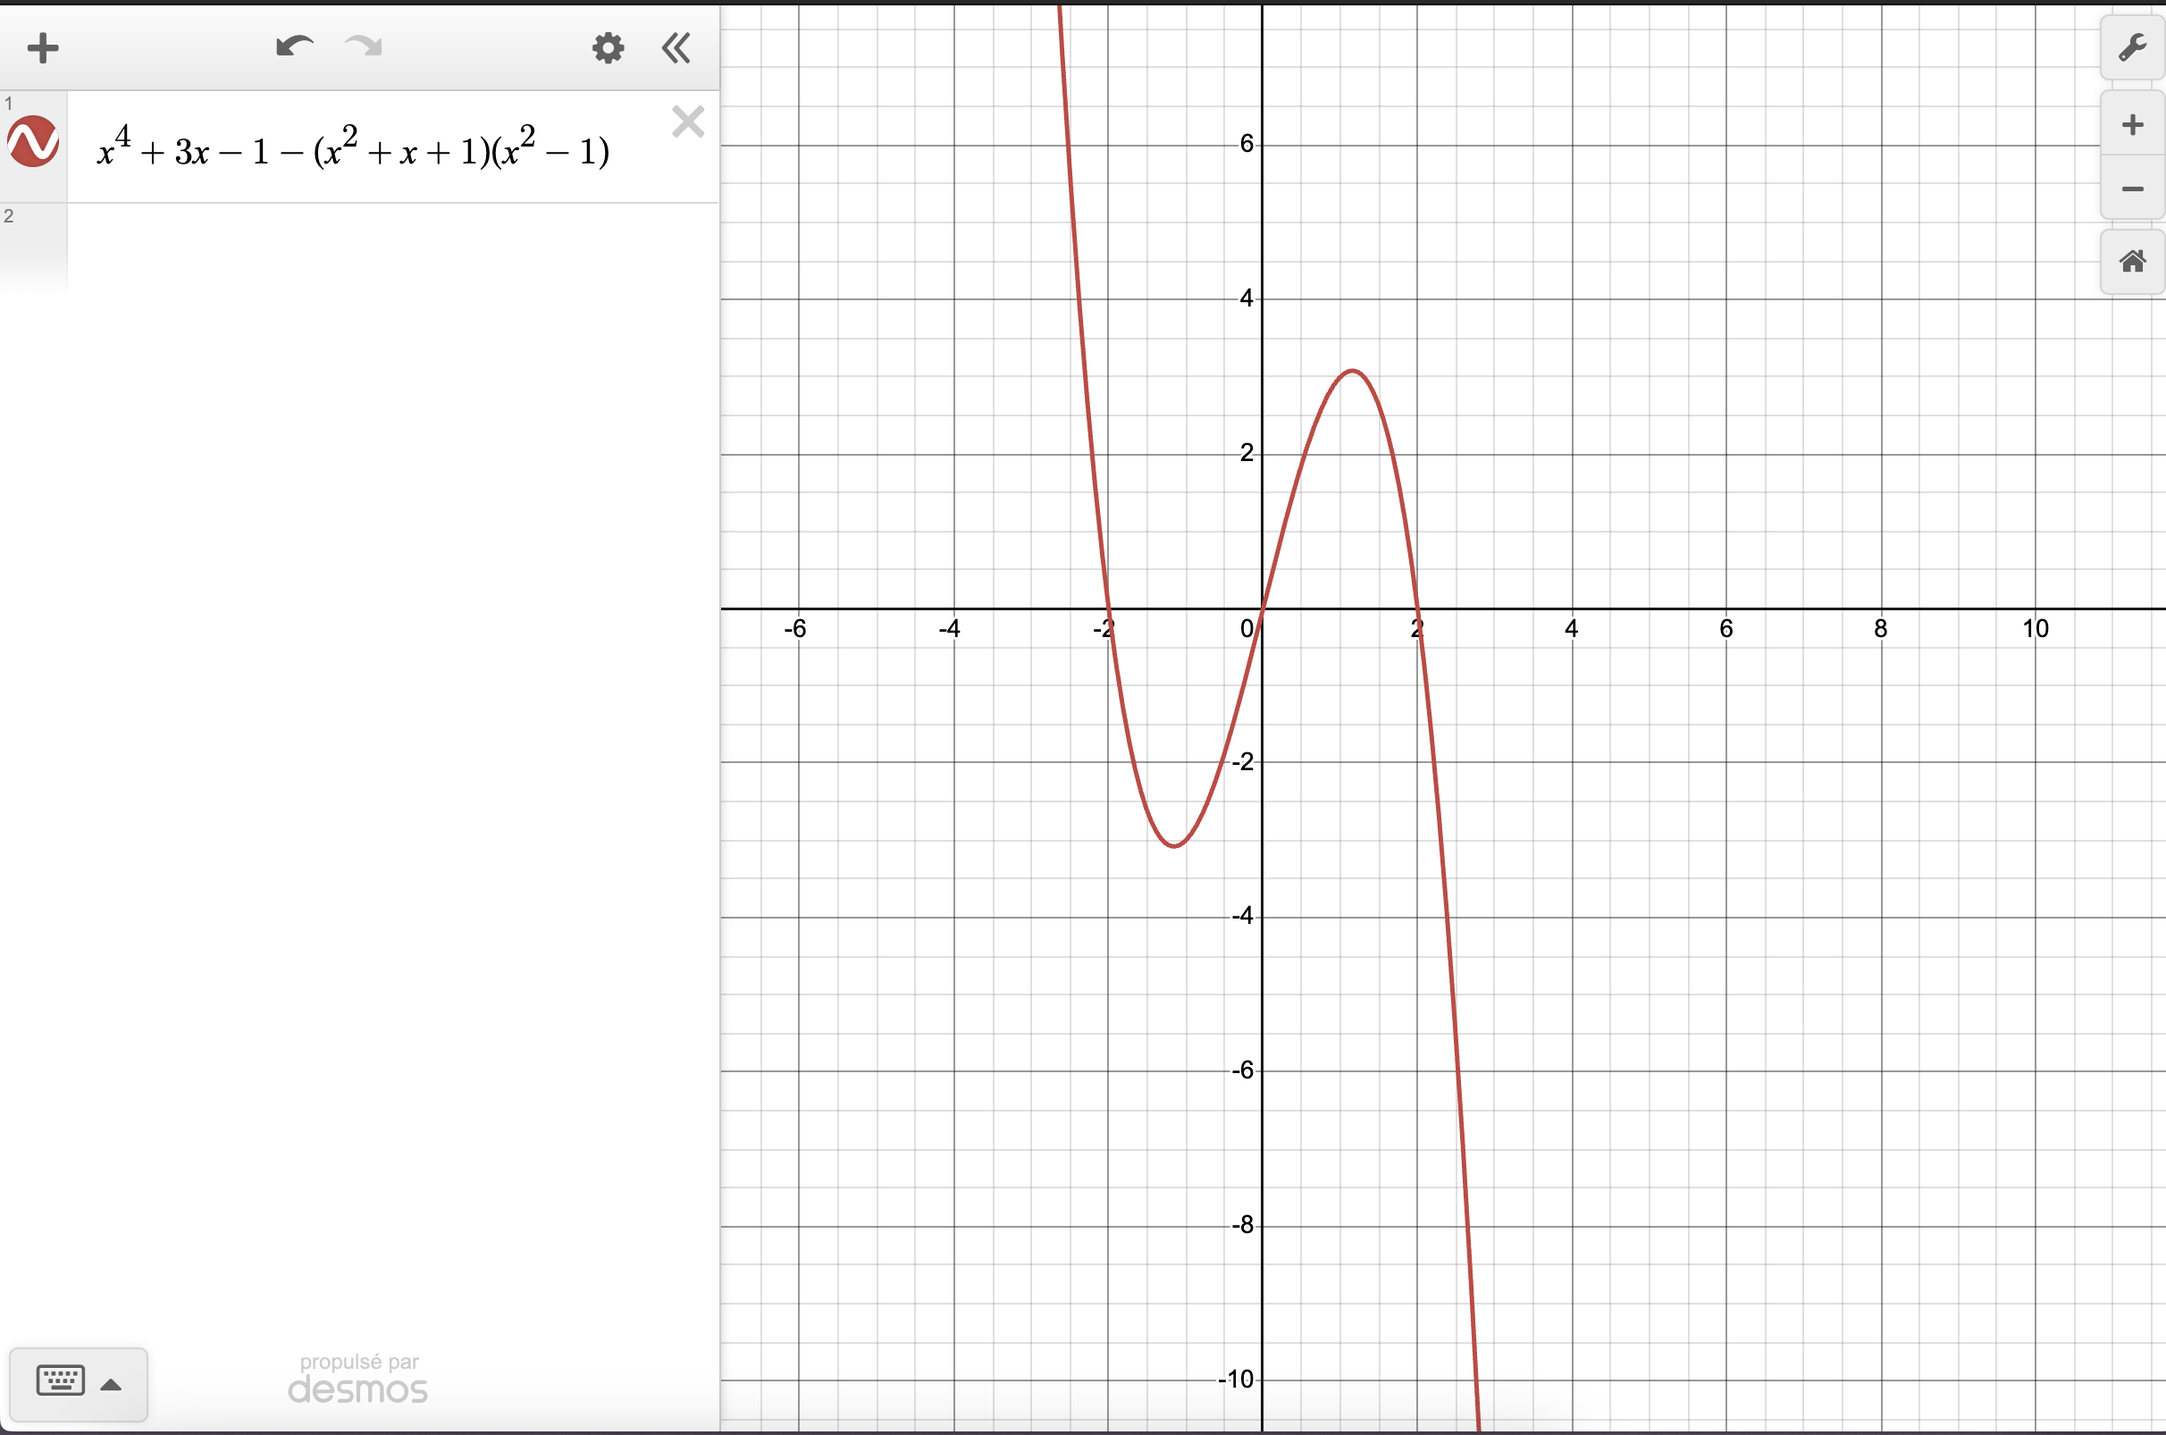
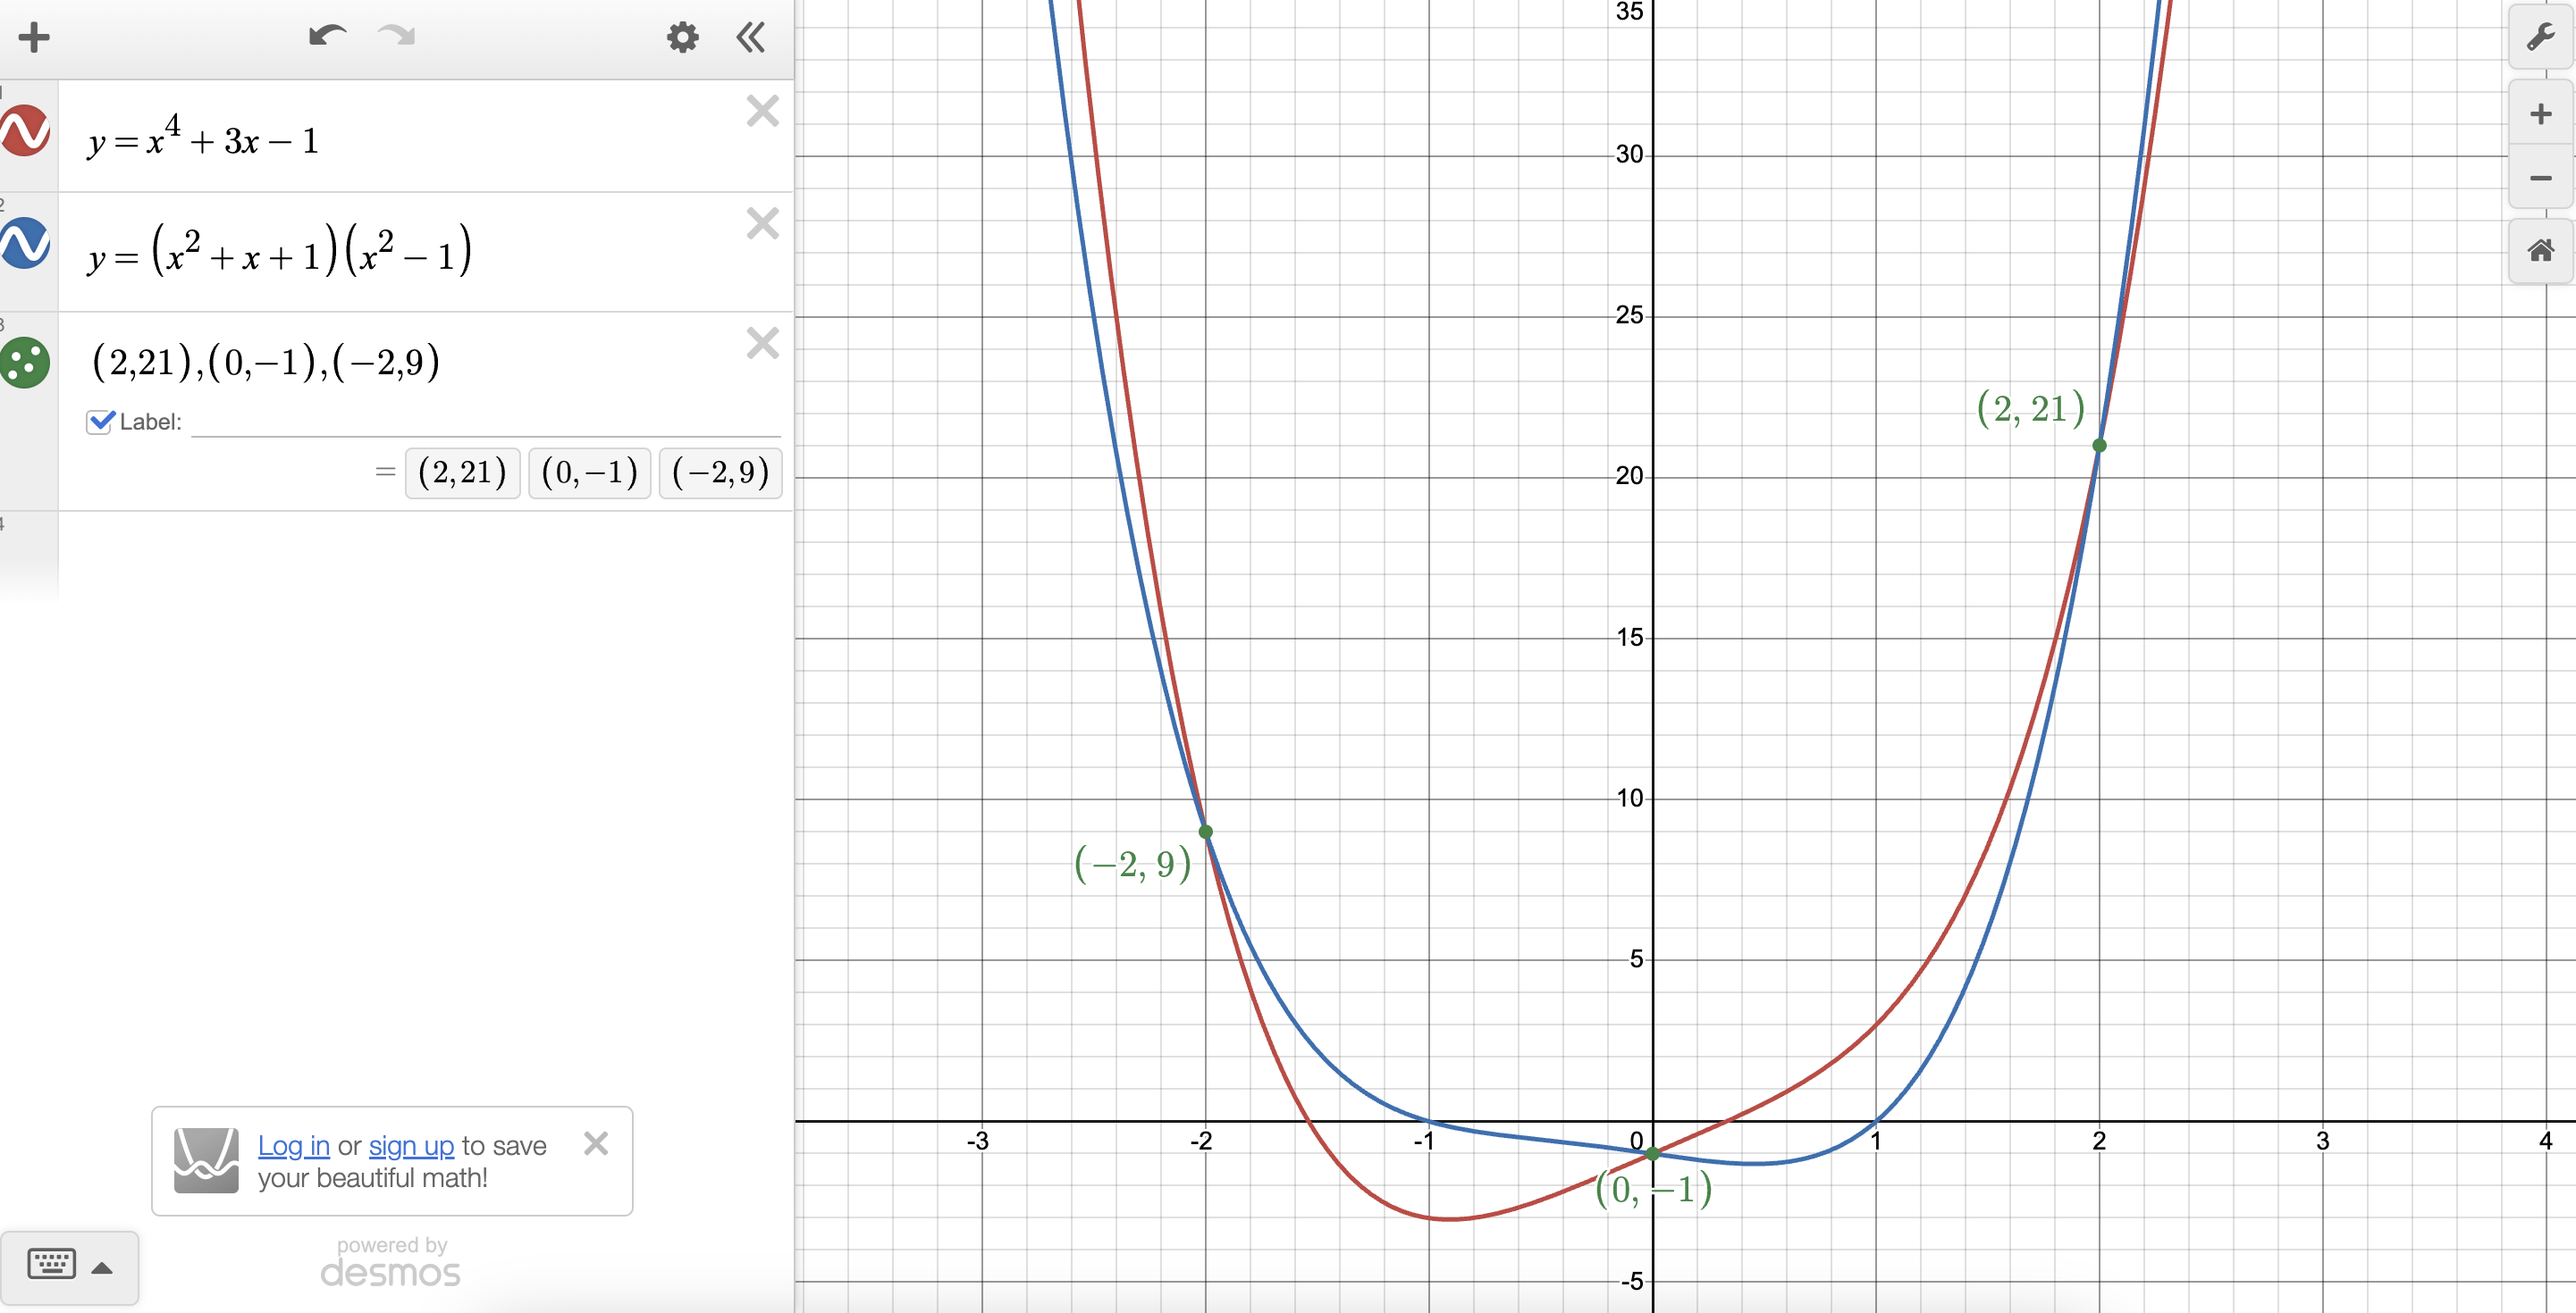
Replace Desmos plot

Changed region(s): [[0.0, 0.0, 1.0, 1.0], [0.0, 0.1531, 0.1856, 0.2143], [0.0, 0.2449, 0.0928, 0.3367]]

diff --git a/src/scenes/examples/equations.tsx b/src/scenes/examples/equations.tsx
@@ -263,8 +263,8 @@ export default makeScene2D(function* (view) {
     <Img
       ref={desmosPlot}
       src={desmosPlotWrongEquation}
-      scale={0.75}
-      position={[0, 100]}
+      scale={0.7}
+      position={[50, 0]}
       opacity={0}
     />,
   );
